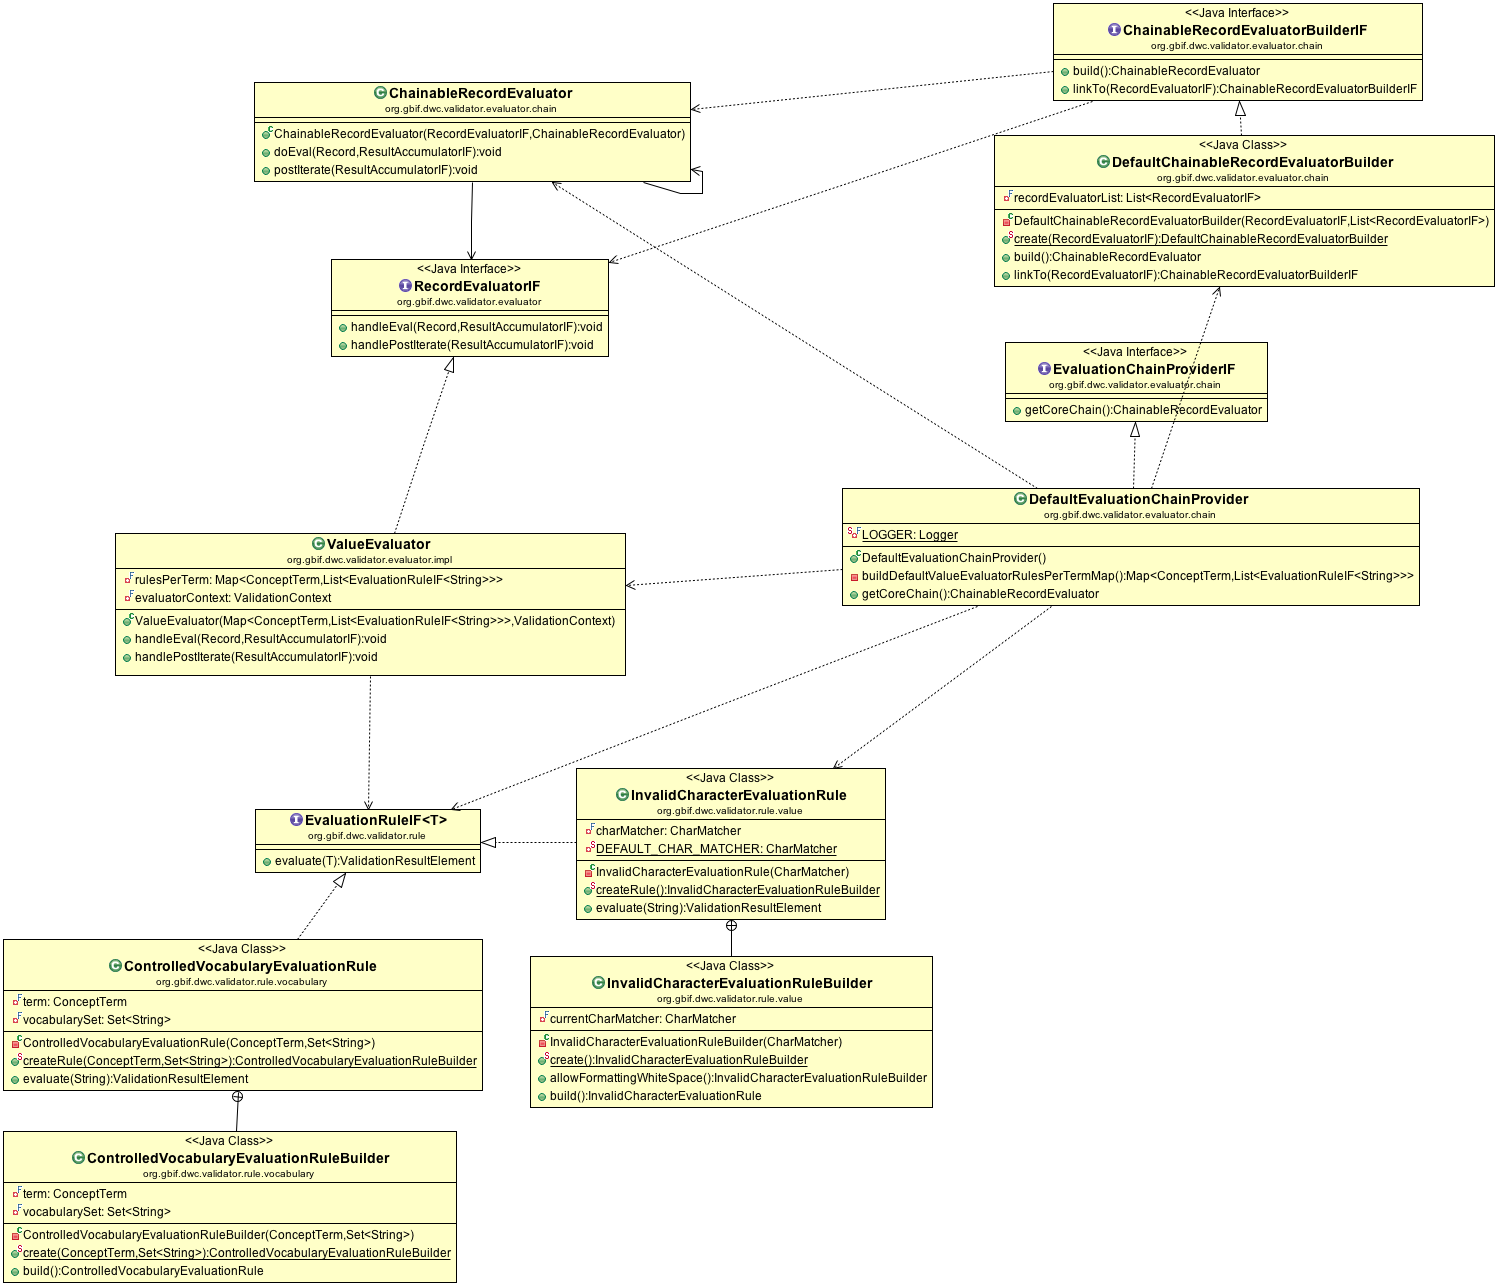
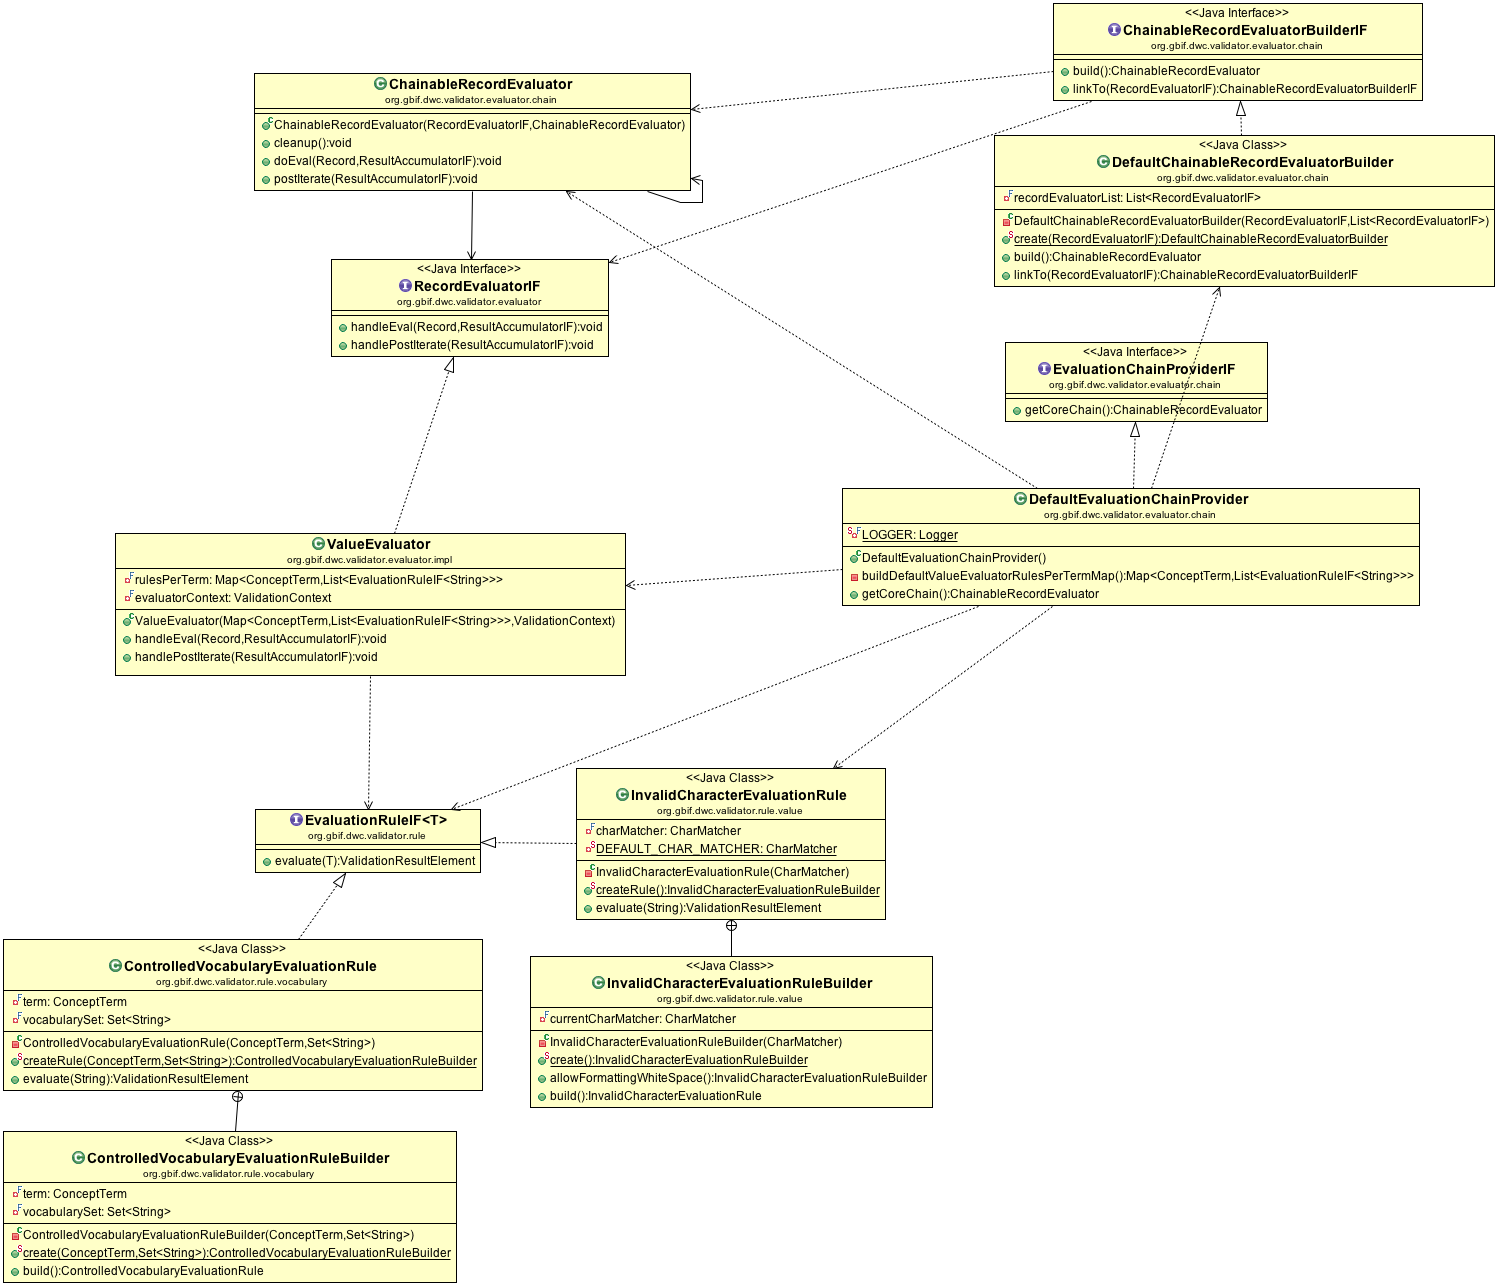
introducing StatefulRecordEvaluatorIF

Changed region(s): [[0.1535, 0.0311, 0.4606, 0.1555]]

diff --git a/dwca-validator-lib/src/main/java/org/gbif/dwc/validator/evaluator/impl/UniquenessEvaluator.java b/dwca-validator-lib/src/main/java/org/gbif/dwc/validator/evaluator/impl/UniquenessEvaluator.java
@@ -3,7 +3,7 @@ package org.gbif.dwc.validator.evaluator.impl;
 import org.gbif.dwc.record.Record;
 import org.gbif.dwc.terms.ConceptTerm;
 import org.gbif.dwc.validator.config.ArchiveValidatorConfig;
-import org.gbif.dwc.validator.evaluator.RecordEvaluatorIF;
+import org.gbif.dwc.validator.evaluator.StatefulRecordEvaluatorIF;
 import org.gbif.dwc.validator.result.Result;
 import org.gbif.dwc.validator.result.ResultAccumulatorIF;
 import org.gbif.dwc.validator.result.ValidationContext;
@@ -33,7 +33,7 @@ import org.slf4j.LoggerFactory;
  * 
  * @author cgendreau
  */
-public class UniquenessEvaluator implements RecordEvaluatorIF {
+public class UniquenessEvaluator implements StatefulRecordEvaluatorIF {
 
   /**
    * Builder of UniquenessEvaluator object.
@@ -143,9 +143,10 @@ public class UniquenessEvaluator implements RecordEvaluatorIF {
   }
 
   /**
-   * Clean generated files
+   * Delete generated files.
    */
-  private void cleanup() {
+  @Override
+  public void cleanup() {
     idRecordingFile.delete();
     sortedIdFile.delete();
   }
@@ -227,6 +228,5 @@ public class UniquenessEvaluator implements RecordEvaluatorIF {
         LOGGER.error("Can't close BufferedReader", ioEx);
       }
     }
-    cleanup();
   }
 }

diff --git a/dwca-validator-lib/src/main/java/org/gbif/dwc/validator/evaluator/chain/ChainableRecordEvaluator.java b/dwca-validator-lib/src/main/java/org/gbif/dwc/validator/evaluator/chain/ChainableRecordEvaluator.java
@@ -2,11 +2,13 @@ package org.gbif.dwc.validator.evaluator.chain;
 
 import org.gbif.dwc.record.Record;
 import org.gbif.dwc.validator.evaluator.RecordEvaluatorIF;
+import org.gbif.dwc.validator.evaluator.StatefulRecordEvaluatorIF;
 import org.gbif.dwc.validator.result.ResultAccumulatorIF;
 
 /**
  * Wrapper class to allow RecordEvaluatorIF to be chainable.
  * The class is immutable but the RecordEvaluatorIF immutability can not be enforced.
+ * Some are, some are not and some are almost immutable.
  * 
  * @author cgendreau
  */
@@ -18,6 +20,18 @@ public class ChainableRecordEvaluator {
   public ChainableRecordEvaluator(RecordEvaluatorIF recordEvaluator, ChainableRecordEvaluator nextElement) {
     this.recordEvaluator = recordEvaluator;
     this.nextElement = nextElement;
+  }
+
+  /**
+   * Cleanup every StatefulRecordEvaluatorIF in the chain.
+   */
+  public void cleanup() {
+    if (recordEvaluator instanceof StatefulRecordEvaluatorIF) {
+      ((StatefulRecordEvaluatorIF) recordEvaluator).cleanup();
+    }
+    if (nextElement != null) {
+      nextElement.cleanup();
+    }
   }
 
   /**

diff --git a/dwca-validator-lib/src/test/java/org/gbif/dwc/validator/evaluator/UniquenessEvaluatorTest.java b/dwca-validator-lib/src/test/java/org/gbif/dwc/validator/evaluator/UniquenessEvaluatorTest.java
@@ -51,6 +51,7 @@ public class UniquenessEvaluatorTest {
       valueEvaluator.handleEval(buildMockRecord("1", "2"), resultAccumulator);
 
       valueEvaluator.handlePostIterate(resultAccumulator);
+      valueEvaluator.cleanup();
     } catch (IOException e) {
       e.printStackTrace();
       fail();
@@ -72,6 +73,7 @@ public class UniquenessEvaluatorTest {
       valueEvaluator.handleEval(buildMockRecord("2", "1"), resultAccumulator);
 
       valueEvaluator.handlePostIterate(resultAccumulator);
+      valueEvaluator.cleanup();
     } catch (IOException e) {
       e.printStackTrace();
       fail();
@@ -90,6 +92,7 @@ public class UniquenessEvaluatorTest {
       valueEvaluator.handleEval(buildMockRecord("2", "1"), resultAccumulator);
 
       valueEvaluator.handlePostIterate(resultAccumulator);
+      valueEvaluator.cleanup();
     } catch (IOException e) {
       e.printStackTrace();
       fail();

diff --git a/dwca-validator-lib/src/main/java/org/gbif/dwc/validator/evaluator/impl/ValueEvaluator.java b/dwca-validator-lib/src/main/java/org/gbif/dwc/validator/evaluator/impl/ValueEvaluator.java
@@ -16,7 +16,7 @@ import java.util.List;
 import java.util.Map;
 
 /**
- * ChainableRecordEvaluator to check the values inside a record.
+ * RecordEvaluatorIF implementation to check the values inside a record.
  * This validation is about what the value is and not what the value represents.
  * TODO: Evaluate the possibility to add its own builder and offer more options like applyToAll
  * 

diff --git a/dwca-validator-lib/src/main/java/org/gbif/dwc/validator/evaluator/StatefulRecordEvaluatorIF.java b/dwca-validator-lib/src/main/java/org/gbif/dwc/validator/evaluator/StatefulRecordEvaluatorIF.java
@@ -1,0 +1,15 @@
+package org.gbif.dwc.validator.evaluator;
+
+/**
+ * Interface defining a RecordEvaluator where it's required to keep a state to perform an evaluation.
+ * 
+ * @author cgendreau
+ */
+public interface StatefulRecordEvaluatorIF extends RecordEvaluatorIF {
+
+  /**
+   * Free all resources
+   */
+  public void cleanup();
+
+}

diff --git a/dwca-validator-lib/src/main/java/org/gbif/dwc/validator/handler/ArchiveContentHandler.java b/dwca-validator-lib/src/main/java/org/gbif/dwc/validator/handler/ArchiveContentHandler.java
@@ -50,6 +50,8 @@ public class ArchiveContentHandler {
       evaluatorChain.doEval(recordIt.next(), resultAccumulator);
     }
     evaluatorChain.postIterate(resultAccumulator);
+
+    evaluatorChain.cleanup();
   }
 
   public void inspectExtension(ArchiveFile archiveFile, ResultAccumulatorIF resultAccumulator) {
